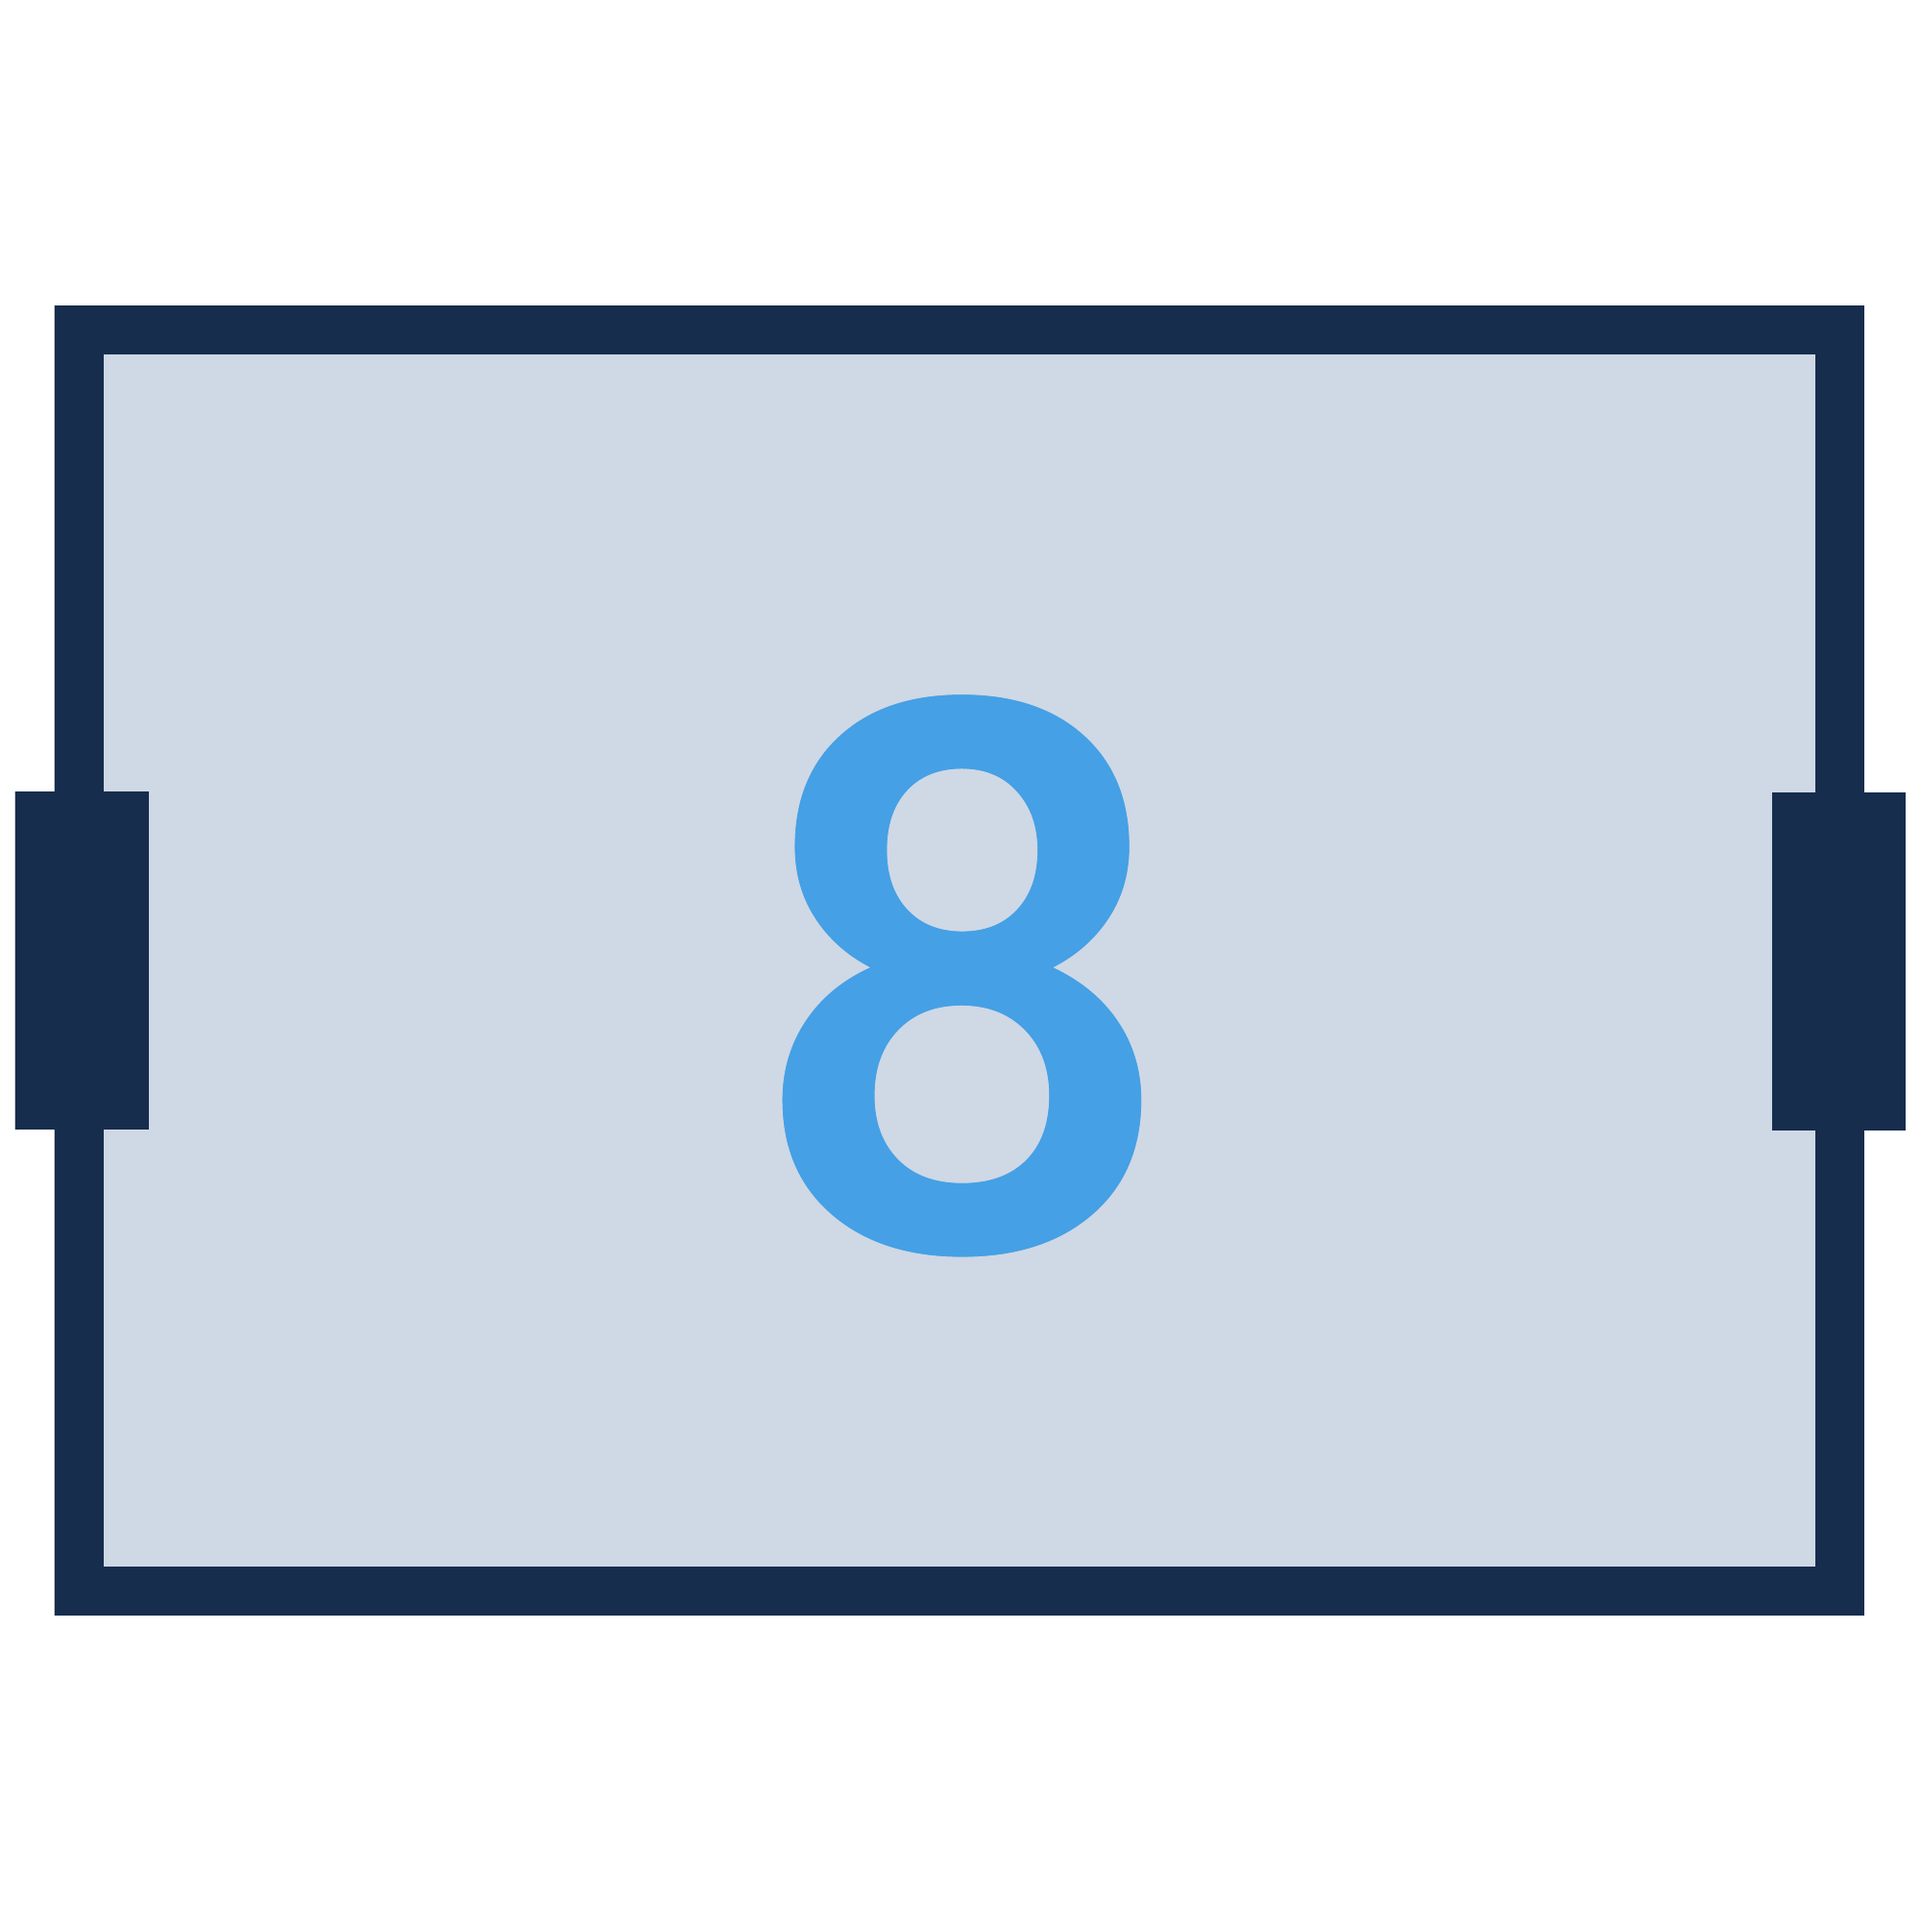
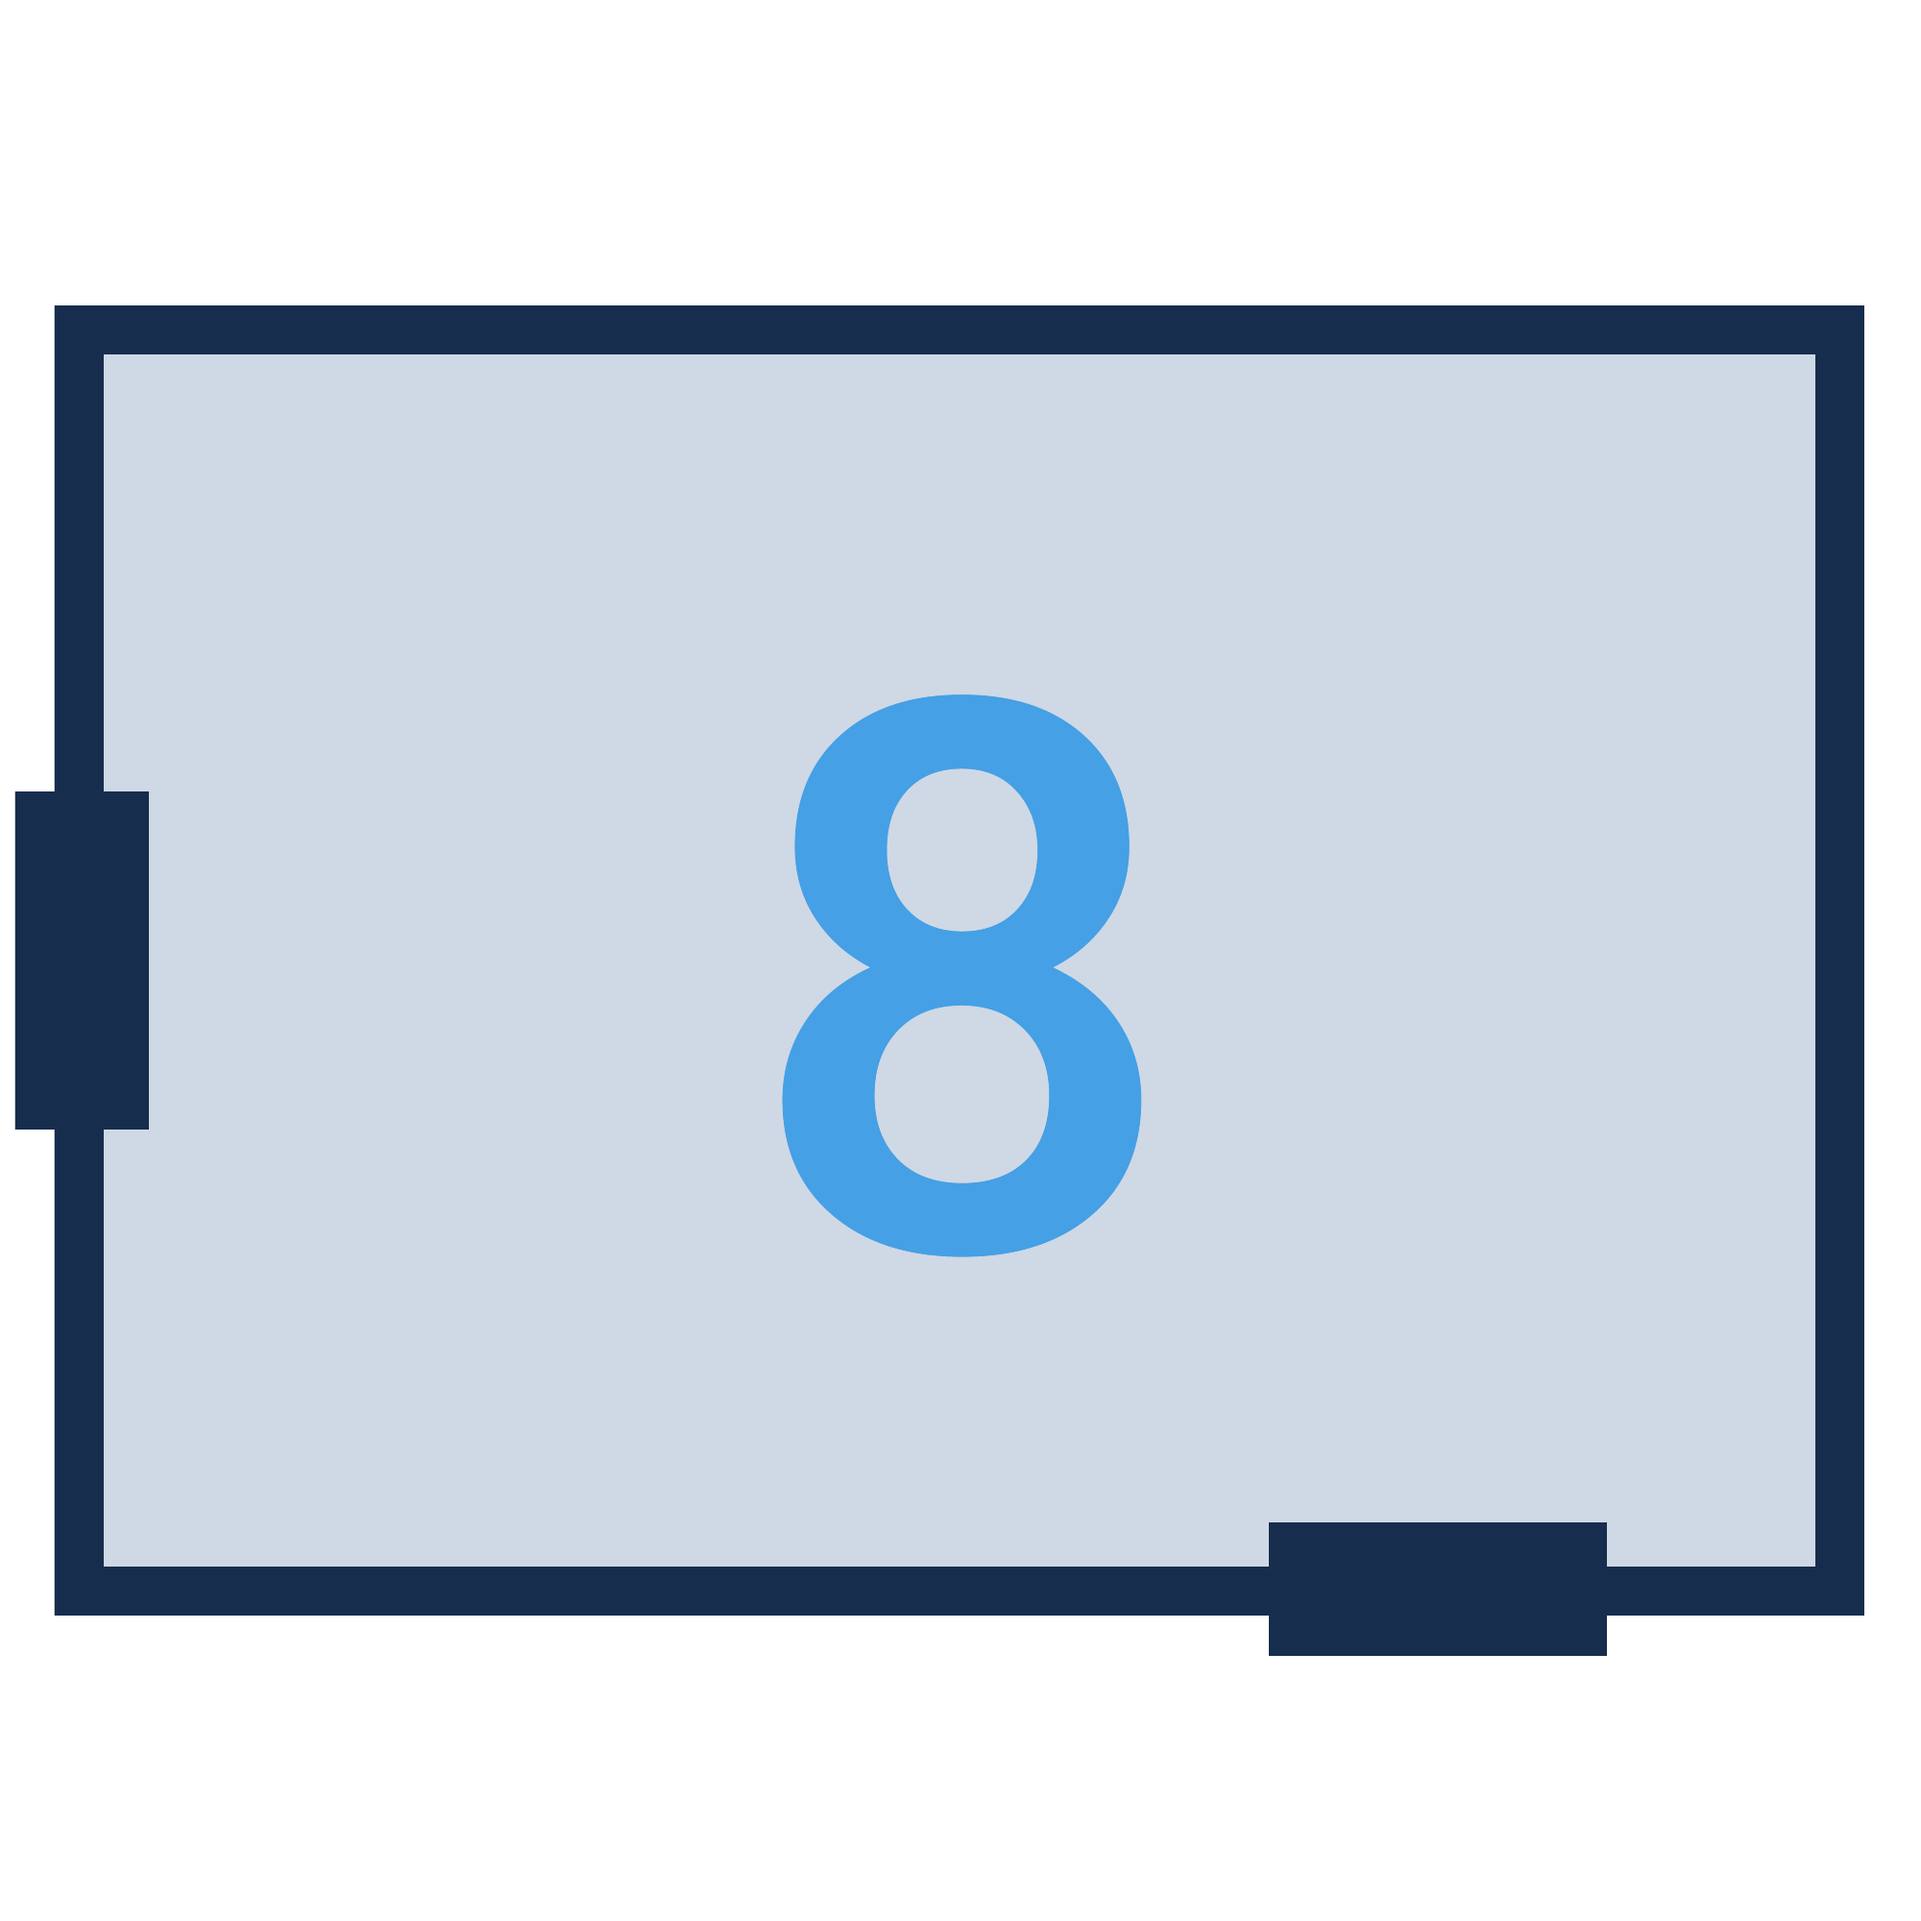
Changed color, position and size of doors in floorplan

Changed region(s): [[0.899, 0.403, 0.992, 0.589], [0.651, 0.775, 0.837, 0.868]]

diff --git a/Presentation/PresentationLogic/LearningSpace/SpaceLayout/FloorPlans/R20X308LViewModel.cs b/Presentation/PresentationLogic/LearningSpace/SpaceLayout/FloorPlans/R20X308LViewModel.cs
@@ -4,37 +4,41 @@ public class R20X308LViewModel : IFloorPlanViewModel
 {
     private const string Icon =
         @"<svg id=""R_20x30_8L-nobg"" xmlns=""http://www.w3.org/2000/svg"" viewBox=""0 0 2000 2000"">
-            <defs>
-            <style>
-            .R_20x30_8L-1 {
-                fill: #172d4d;
-            }
+    <defs>
+    <style>
+    .cls-1 {
+        fill: #172d4d;
+    }
 
-            .R_20x30_8L-2 {
-                fill: #45a0e5;
-                stroke: #45a0e5;
-                stroke-miterlimit: 8;
-            }
+    .cls-1, .cls-2 {
+        stroke-width: 0px;
+    }
 
-            .R_20x30_8L-3 {
-                fill: #cfd8e5;
-            }
-            </style>
-            </defs>
-            <g>
-            <rect class=""R_20x30_8L-3"" x=""82.5"" y=""343.5"" width=""1833"" height=""1313""/>
-            <path class=""R_20x30_8L-1"" d=""m1890,369v1262H108V369h1782m51-51H57v1364h1884V318h0Z""/>
-            </g>
-            <g>
-            <rect class=""R_20x30_8L-1"" x=""1870.5"" y=""850.5"" width=""88"" height=""301""/>
-            <path class=""R_20x30_8L-1"" d=""m1933,876v250h-37v-250h37m51-51h-139v352h139v-352h0Z""/>
-            </g>
-            <g>
-            <rect class=""R_20x30_8L-1"" x=""41.5"" y=""849.5"" width=""88"" height=""301""/>
-            <path class=""R_20x30_8L-1"" d=""m104,875v250h-37v-250h37m51-51H16v352h139v-352h0Z""/>
-            </g>
-            <path class=""R_20x30_8L-2"" d=""m1175.25,881.5c0,27.87-7.17,52.67-21.48,74.41-14.33,21.75-33.86,38.87-58.59,51.37,29.69,13.81,52.54,32.68,68.55,56.64,16.02,23.96,24.02,51.04,24.02,81.25,0,50-16.93,89.65-50.78,118.95-33.86,29.3-78.91,43.95-135.16,43.95s-101.76-14.71-135.74-44.14c-33.98-29.42-50.98-69.01-50.98-118.75,0-30.47,8.07-57.81,24.22-82.03,16.14-24.22,38.8-42.83,67.97-55.86-24.48-12.5-43.82-29.62-58.01-51.37-14.2-21.74-21.29-46.55-21.29-74.41,0-48.44,15.62-86.85,46.88-115.23,31.25-28.38,73.44-42.58,126.56-42.58s95.7,14.2,126.95,42.58c31.25,28.39,46.88,66.8,46.88,115.23Zm-82.42,258.98c0-28.12-8.4-50.84-25.2-68.16-16.8-17.32-39-25.98-66.6-25.98s-49.68,8.59-66.21,25.78c-16.54,17.19-24.8,39.98-24.8,68.36s8.14,50.13,24.41,66.8c16.27,16.67,38.73,25,67.38,25s50.98-8.07,66.99-24.22c16.02-16.14,24.02-38.67,24.02-67.58Zm-12.11-255.47c0-24.74-7.17-45.12-21.48-61.13-14.33-16.02-33.59-24.02-57.81-24.02s-43.36,7.62-57.42,22.85-21.09,36-21.09,62.3,7.09,46.75,21.29,62.11c14.19,15.37,33.4,23.05,57.62,23.05s43.42-7.68,57.62-23.05c14.19-15.36,21.29-36.07,21.29-62.11Z""/>
-        </svg>";
+    .cls-3 {
+        fill: #45a0e5;
+        stroke: #45a0e5;
+        stroke-miterlimit: 8;
+    }
+
+    .cls-2 {
+        fill: #cfd8e5;
+    }
+    </style>
+    </defs>
+    <g>
+    <rect class=""cls-2"" x=""82.5"" y=""343.5"" width=""1833"" height=""1313""/>
+    <path class=""cls-1"" d=""m1890,369v1262H108V369h1782m51-51H57v1364h1884V318h0Z""/>
+    </g>
+    <g>
+    <rect class=""cls-1"" x=""41.5"" y=""849.5"" width=""88"" height=""301""/>
+    <path class=""cls-1"" d=""m104,875v250h-37v-250h37m51-51H16v352h139v-352h0Z""/>
+    </g>
+    <path class=""cls-3"" d=""m1175.25,881.5c0,27.87-7.17,52.67-21.48,74.41-14.33,21.75-33.86,38.87-58.59,51.37,29.69,13.81,52.54,32.68,68.55,56.64,16.02,23.96,24.02,51.04,24.02,81.25,0,50-16.93,89.65-50.78,118.95-33.86,29.3-78.91,43.95-135.16,43.95s-101.76-14.71-135.74-44.14c-33.98-29.42-50.98-69.01-50.98-118.75,0-30.47,8.07-57.81,24.22-82.03,16.14-24.22,38.8-42.83,67.97-55.86-24.48-12.5-43.82-29.62-58.01-51.37-14.2-21.74-21.29-46.55-21.29-74.41,0-48.44,15.62-86.85,46.88-115.23,31.25-28.38,73.44-42.58,126.56-42.58s95.7,14.2,126.95,42.58c31.25,28.39,46.88,66.8,46.88,115.23Zm-82.42,258.98c0-28.12-8.4-50.84-25.2-68.16-16.8-17.32-39-25.98-66.6-25.98s-49.68,8.59-66.21,25.78c-16.54,17.19-24.8,39.98-24.8,68.36s8.14,50.13,24.41,66.8c16.27,16.67,38.73,25,67.38,25s50.98-8.07,66.99-24.22c16.02-16.14,24.02-38.67,24.02-67.58Zm-12.11-255.47c0-24.74-7.17-45.12-21.48-61.13-14.33-16.02-33.59-24.02-57.81-24.02s-43.36,7.62-57.42,22.85-21.09,36-21.09,62.3,7.09,46.75,21.29,62.11c14.19,15.37,33.4,23.05,57.62,23.05s43.42-7.68,57.62-23.05c14.19-15.36,21.29-36.07,21.29-62.11Z""/>
+    <g>
+    <rect class=""cls-1"" x=""1346.5"" y=""1610.5"" width=""301"" height=""88""/>
+    <path class=""cls-1"" d=""m1622,1636v37h-250v-37h250m51-51h-352v139h352v-139h0Z""/>
+    </g>
+    </svg>";
 
     public int Capacity => 8;
 
@@ -60,8 +64,8 @@ public class R20X308LViewModel : IFloorPlanViewModel
 
     public IList<(Point, Point)> DoorPositions { get; } = new List<(Point, Point)>()
     {
-        (new Point {X = 0, Y = 8}, new Point {X = 0, Y = 12}),
-        (new Point {X = 22, Y = 20}, new Point {X = 26, Y = 20})
+        (new Point {X = 0, Y = 12}, new Point {X = 0, Y = 7}),
+        (new Point {X = 22, Y = 20}, new Point {X = 25, Y = 20})
     };
 
     public string GetIcon => Icon;

diff --git a/Presentation/PresentationLogic/LearningSpace/SpaceLayout/FloorPlans/L32X3110LViewModel.cs b/Presentation/PresentationLogic/LearningSpace/SpaceLayout/FloorPlans/L32X3110LViewModel.cs
@@ -67,8 +67,8 @@ public class L32X3110LViewModel : IFloorPlanViewModel
 
     public IList<(Point, Point)> DoorPositions { get; } = new List<(Point, Point)>()
     {
-        (new Point {X = 0, Y = 6}, new Point {X = 0, Y = 10}),
-        (new Point {X = 24, Y = 31}, new Point {X = 28, Y = 31})
+        (new Point {X = 0, Y = 11}, new Point {X = 0, Y = 6}),
+        (new Point {X = 24, Y = 31}, new Point {X = 27, Y = 31})
     };
 
     public string GetIcon => Icon;

diff --git a/Presentation/PresentationLogic/LearningSpace/SpaceLayout/FloorPlans/R20X206LViewModel.cs b/Presentation/PresentationLogic/LearningSpace/SpaceLayout/FloorPlans/R20X206LViewModel.cs
@@ -58,8 +58,8 @@ public class R20X206LViewModel : IFloorPlanViewModel
 
     public IList<(Point, Point)> DoorPositions { get; } = new List<(Point, Point)>()
     {
-        (new Point {X = 0, Y = 8}, new Point {X = 0, Y = 12}),
-        (new Point {X = 8, Y = 20}, new Point {X = 12, Y = 20})
+        (new Point {X = 0, Y = 13}, new Point {X = 0, Y = 8}),
+        (new Point {X = 8, Y = 20}, new Point {X = 11, Y = 20})
     };
 
     public string GetIcon => Icon;
